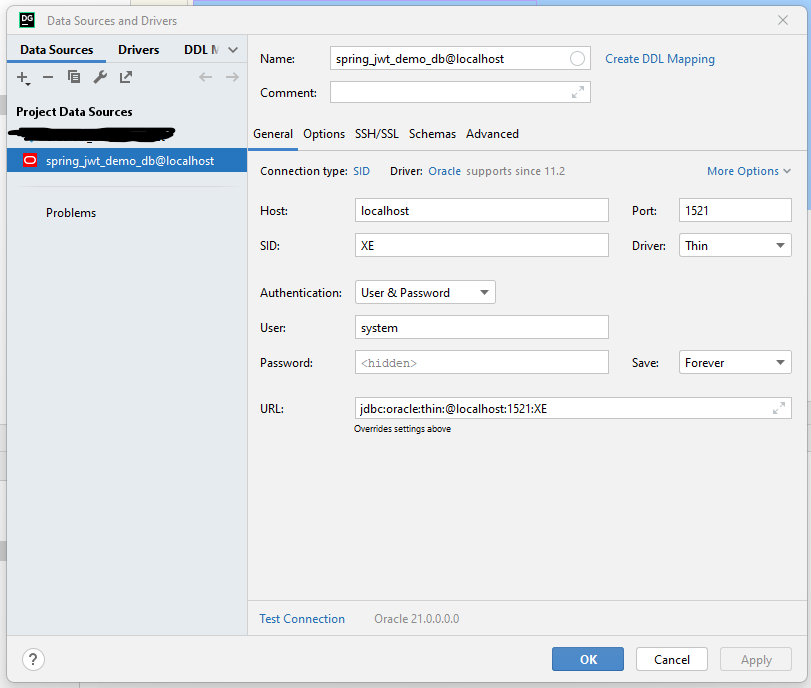
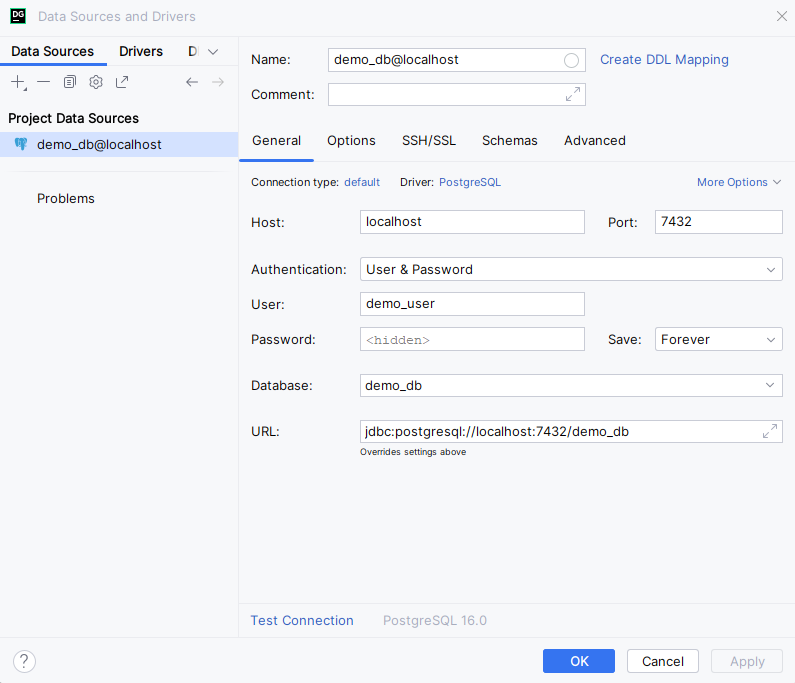
Use postgresql instead of oracle db

Changed region(s): [[0.0, 0.0, 1.0, 1.0], [0.3019, 0.0615, 0.9057, 0.1537], [0.3019, 0.8917, 0.6038, 0.9224]]

diff --git a/README.md b/README.md
@@ -11,9 +11,9 @@
   - spring-boot-starter-oauth2-resource-server (**provides support for OAuth 2.0 Bearer Tokens**) - https://docs.spring.io/spring-security/reference/servlet/oauth2/resource-server/index.html
   - spring-security-oauth2-jose (**provides support for decoding and verifying JWTs**)
   - spring-boot-starter-data-jpa (**to manage DB objects**)
-- org.bouncycastle:bcprov-jdk15on (**lightweight Java cryptography API**) - https://www.bouncycastle.org/java.html
+- org.bouncycastle:bcprov-jdk18on (**lightweight Java cryptography API**) - https://www.bouncycastle.org/java.html
 - springdoc-openapi-starter-webmvc-ui (**Spring Boot support for OpenAPI 3 & Swagger UI**) - https://springdoc.org/
-- Oracle 21 XE DB - (**Oracle Express Edition**)
+- PostgreSQL - (**latest**)
 - Lombok (**to remove boilerplate code like accessors/ constructors/ etc**) - https://projectlombok.org/
 - Apache commons-lang3 (**provides popular utility methods**) - https://commons.apache.org/proper/commons-lang/
 - Maven 3.8 (**Build Tool**)
@@ -42,23 +42,24 @@ docker-compose up -d
 ### Connect to the DB (using some DB tool like DBeaver or DataGrip)
 
 ```properties
-url=jdbc:oracle:thin:@localhost:1521:XE
-user=system
-pwd=oracle
+url=jdbc:postgresql://localhost:7432/demo_db
+user=demo_user
+pwd=DemoUser1Pass2Qa
 ```
 
 DataGrip Example:
 ![DataGrip_Example.png](docs/DataGrip_Example.png)
 
-### Init DB (execute initial scripts)
+### Init DB (application-dev.properties)
 
-Run the SQL scripts, located under ```/src/main/resources/db/oracle``` in the order they appear.
-
-1). Init
-db - [V0.0.1.20230424.1809.00359__init_db.sql](src%2Fmain%2Fresources%2Fdb%2Foracle%2FV0.0.1.20230424.1809.00359__init_db.sql)
-
-2). Create
-tables - [V0.0.1.20230424.1809.26326__create_table_users.sql](src%2Fmain%2Fresources%2Fdb%2Foracle%2FV0.0.1.20230424.1809.26326__create_table_users.sql)
+Set in **application-dev.properties**:
+```
+spring.jpa.hibernate.ddl-auto=create
+```
+After the initial run switch to:
+```
+spring.jpa.hibernate.ddl-auto=validate
+```
 
 ### Stop Services (DB)
 ``` 
